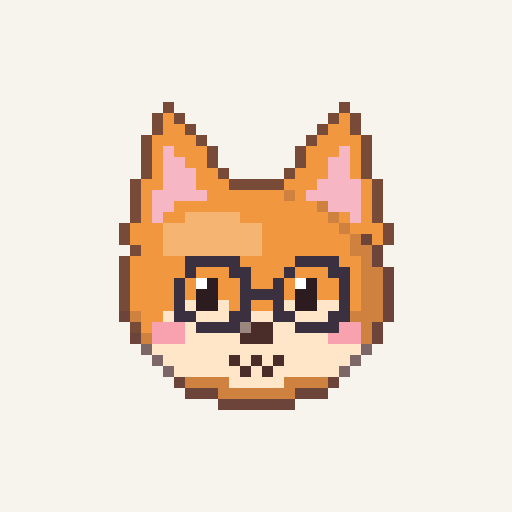
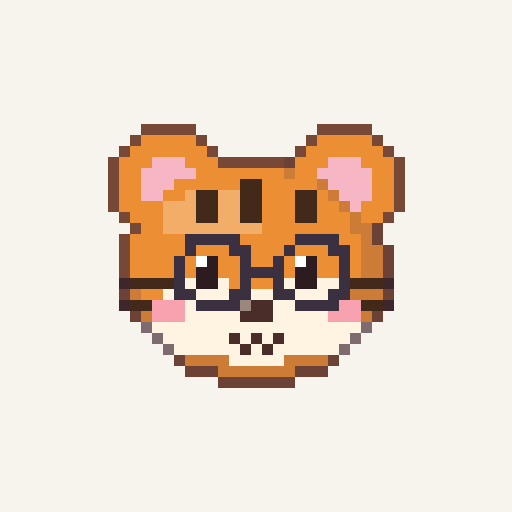
사장님을 호랑이로: 인트로 · 3층 방문 · 앱 아이콘
- 사장님 그림을 여우(bossfox)에서 호랑이(bosstiger)로. 이노트보다 짙은 호박색, 흰 볼, 둥근 안경
- 인트로 인사 장면과 3층에 들르는 사장님이 같은 그림을 쓴다
- 홈 화면 아이콘 · 파비콘도 호랑이 사장님 얼굴로 다시 만듦

Claude-Session: https://claude.ai/code/session_011mdzGhoRQRMpyoyZJmjdHo

Changed region(s): [[0.1875, 0.1875, 0.8125, 0.8125]]

diff --git a/assets/pixoffice.js b/assets/pixoffice.js
@@ -601,7 +601,7 @@ var KIND = {
   hedgehog:{f:'#eed6b0',F:'#fbf0dc',d:'#7a5638',ears:'hedgehog'},
   frog:    {f:'#86c464',F:'#d8f0bc',d:'#5a9a42',ears:'frog'},
   // 방문객 (본편의 사장님·택배기사·업체직원·수리기사·연주자·경비)
-  bossfox: {f:'#f0973f',F:'#ffe6c8',d:'#c46a26',ears:'pointed',mark:'fox'},
+  bosstiger:{f:'#ec8f34',F:'#fff4e2',d:'#43291a',ears:'round',mark:'tiger',cheeks:true},   // 사장님: 호랑이 (이노트보다 짙은 호박색)
   pup:     {f:'#c9906a',F:'#f0d8bc',d:'#8e603f',ears:'floppy'},
   greycat: {f:'#b9b2a6',F:'#ebe6dc',d:'#8a847c',ears:'pointed',mark:'cat'},
   goat:    {f:'#c49a6c',F:'#ecd8bc',d:'#8a6a48',ears:'horns'},
@@ -672,7 +672,7 @@ function drawHead(g,K,p,dir,blink){
     var mx = cx-9, my = cy+4;
     if(K.mark==='monkey') ell(g,cx-3,cy+1,7,6,F);
     ell(g,mx,my,5,3,F); if(K.mark==='horse') ell(g,mx-1,my+1,6,4,F);
-    if(K.mark==='fox'||K.mark==='cat') ell(g,cx-4,cy+5,4,3,F);
+    if(K.mark==='fox'||K.mark==='cat'||K.cheeks) ell(g,cx-4,cy+5,4,3,F);
     if(K.mark==='tiger'){ R(g,cx+2,cy-8,2,4,d); R(g,cx+6,cy-6,2,4,d); R(g,cx+4,cy+2,4,1,d); R(g,cx+4,cy+4,4,1,d); }
     if(K.mark==='cow') ell(g,cx+4,cy-3,4,3,d);
     if(K.mark==='giraffe'){ ell(g,cx+5,cy-3,2,1,d); ell(g,cx+3,cy+4,2,1,d); }
@@ -692,7 +692,7 @@ function drawHead(g,K,p,dir,blink){
   }
   // 정면
   if(K.mark==='monkey') ell(g,cx,cy+2,8,6,F);
-  if(K.mark==='fox'||K.mark==='cat'){ ell(g,cx-5,cy+4,4,3,F); ell(g,cx+5,cy+4,4,3,F); }
+  if(K.mark==='fox'||K.mark==='cat'||K.cheeks){ ell(g,cx-5,cy+4,4,3,F); ell(g,cx+5,cy+4,4,3,F); }
   if(K.mark==='tiger'){ R(g,cx-1,cy-8,2,4,d); R(g,cx-5,cy-7,2,3,d); R(g,cx+4,cy-7,2,3,d); R(g,cx-11,cy+1,4,1,d); R(g,cx-11,cy+3,3,1,d); R(g,cx+8,cy+1,4,1,d); R(g,cx+9,cy+3,3,1,d); }
   if(K.mark==='cow'){ ell(g,cx+6,cy-3,4,4,d); ell(g,cx-7,cy-6,3,2,d); }
   if(K.mark==='giraffe'){ ell(g,cx-7,cy-4,2,1,d); ell(g,cx+7,cy-5,2,2,d); ell(g,cx+8,cy+4,1,1,d); }
@@ -821,7 +821,7 @@ var STAFF = [
 
 // ---- 방문객 생김새 (본편 방문객 id → 그림) ----
 var VISITORS={
-  visitorBoss:    {id:'visitorBoss',    kind:'bossfox', shirt:'#96897a', pants:'#4a4038'},
+  visitorBoss:    {id:'visitorBoss',    kind:'bosstiger', shirt:'#96897a', pants:'#4a4038'},
   visitorCourier: {id:'visitorCourier', kind:'pup',     shirt:'#3a7ac0', pants:'#2f4a6a', hat:'#3a7ac0', carry:'box'},
   visitorVendor:  {id:'visitorVendor',  kind:'greycat', shirt:'#5c8f5c', pants:'#3e4a44'},
   visitorFixer:   {id:'visitorFixer',   kind:'goat',    shirt:'#6f8196', pants:'#3e4c5c', hat:'#9aa2a8', carry:'tool'},

diff --git a/assets/pixcity.js b/assets/pixcity.js
@@ -165,7 +165,7 @@ function Intro(){
   var c=document.createElement('canvas'); c.id='introPix'; c.setAttribute('aria-hidden','true');
   screen.insertBefore(c, screen.firstChild); screen.classList.add('pixIntro');
   var g=c.getContext('2d'), buf=cv(4,4), bg=buf.getContext('2d');
-  var boss=PO.buildSprites({ id:'introBoss', kind:'bossfox', shirt:'#96897a', pants:'#4a4038', acc:'glasses', tie:'#33547f' });
+  var boss=PO.buildSprites({ id:'introBoss', kind:'bosstiger', shirt:'#96897a', pants:'#4a4038', acc:'glasses', tie:'#33547f' });
   var plant=pottedPlant(), fac=null, facPh=null, blinkAt=0, lastDraw=-1e9;
   var signEl=document.querySelector('#introStage .introSign span');
   function frame(now){ requestAnimationFrame(frame); paint(now); }
